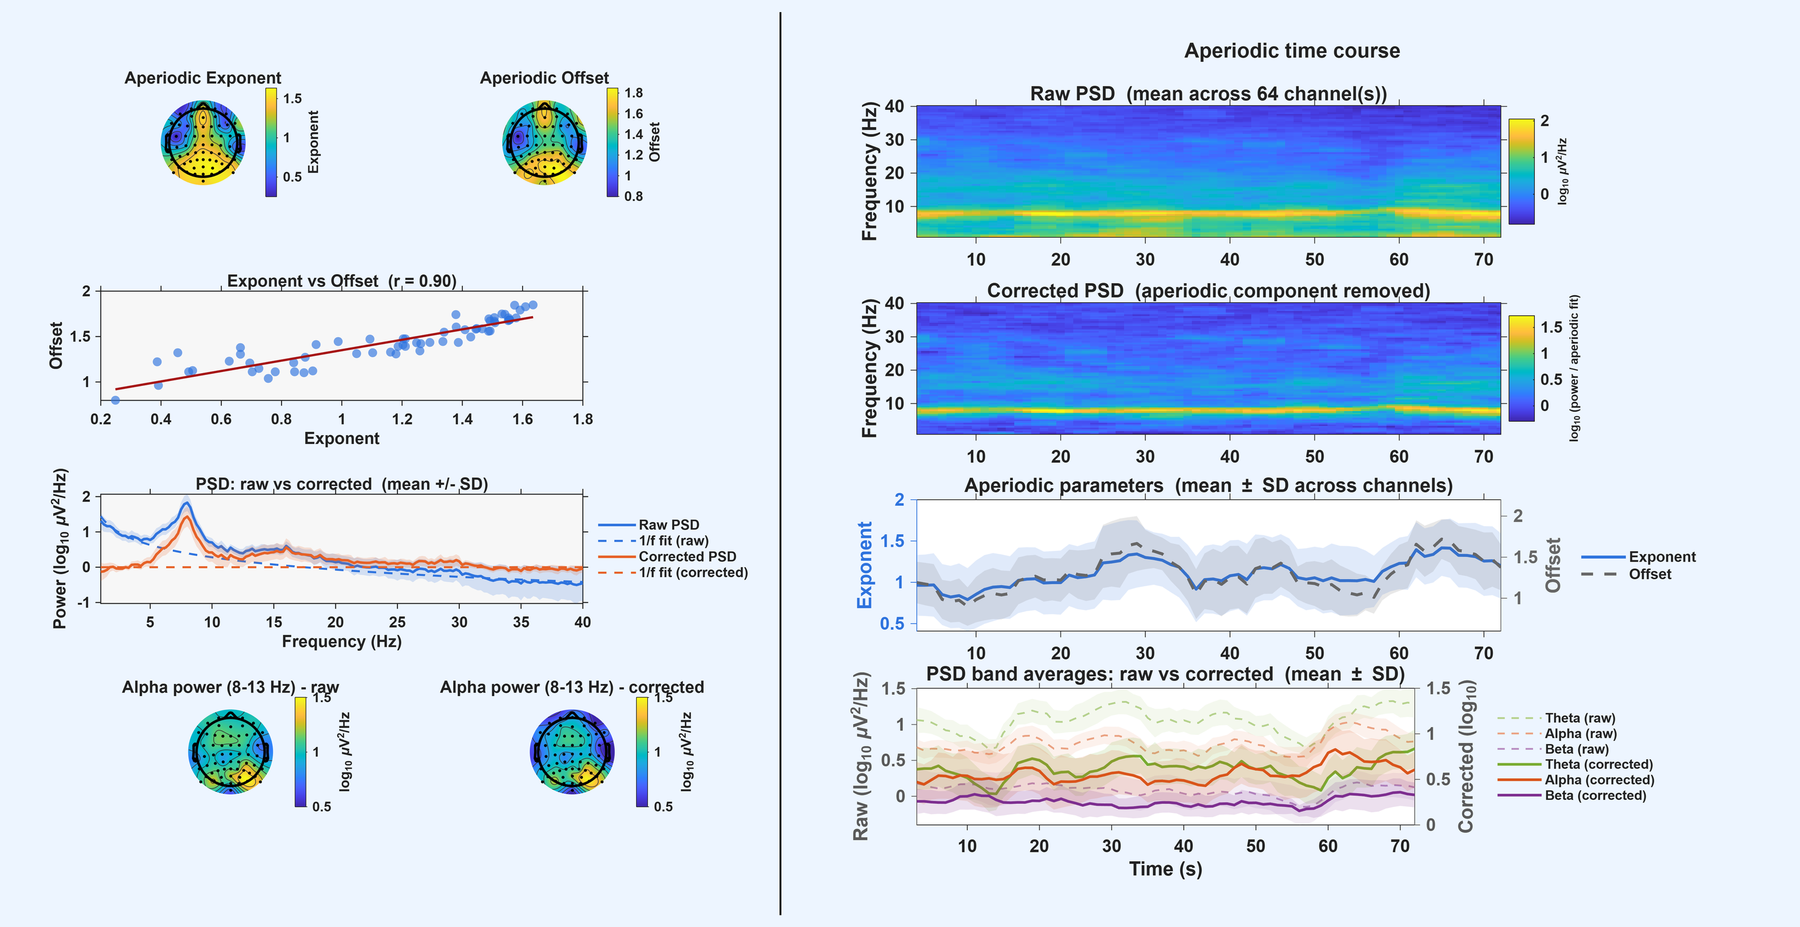
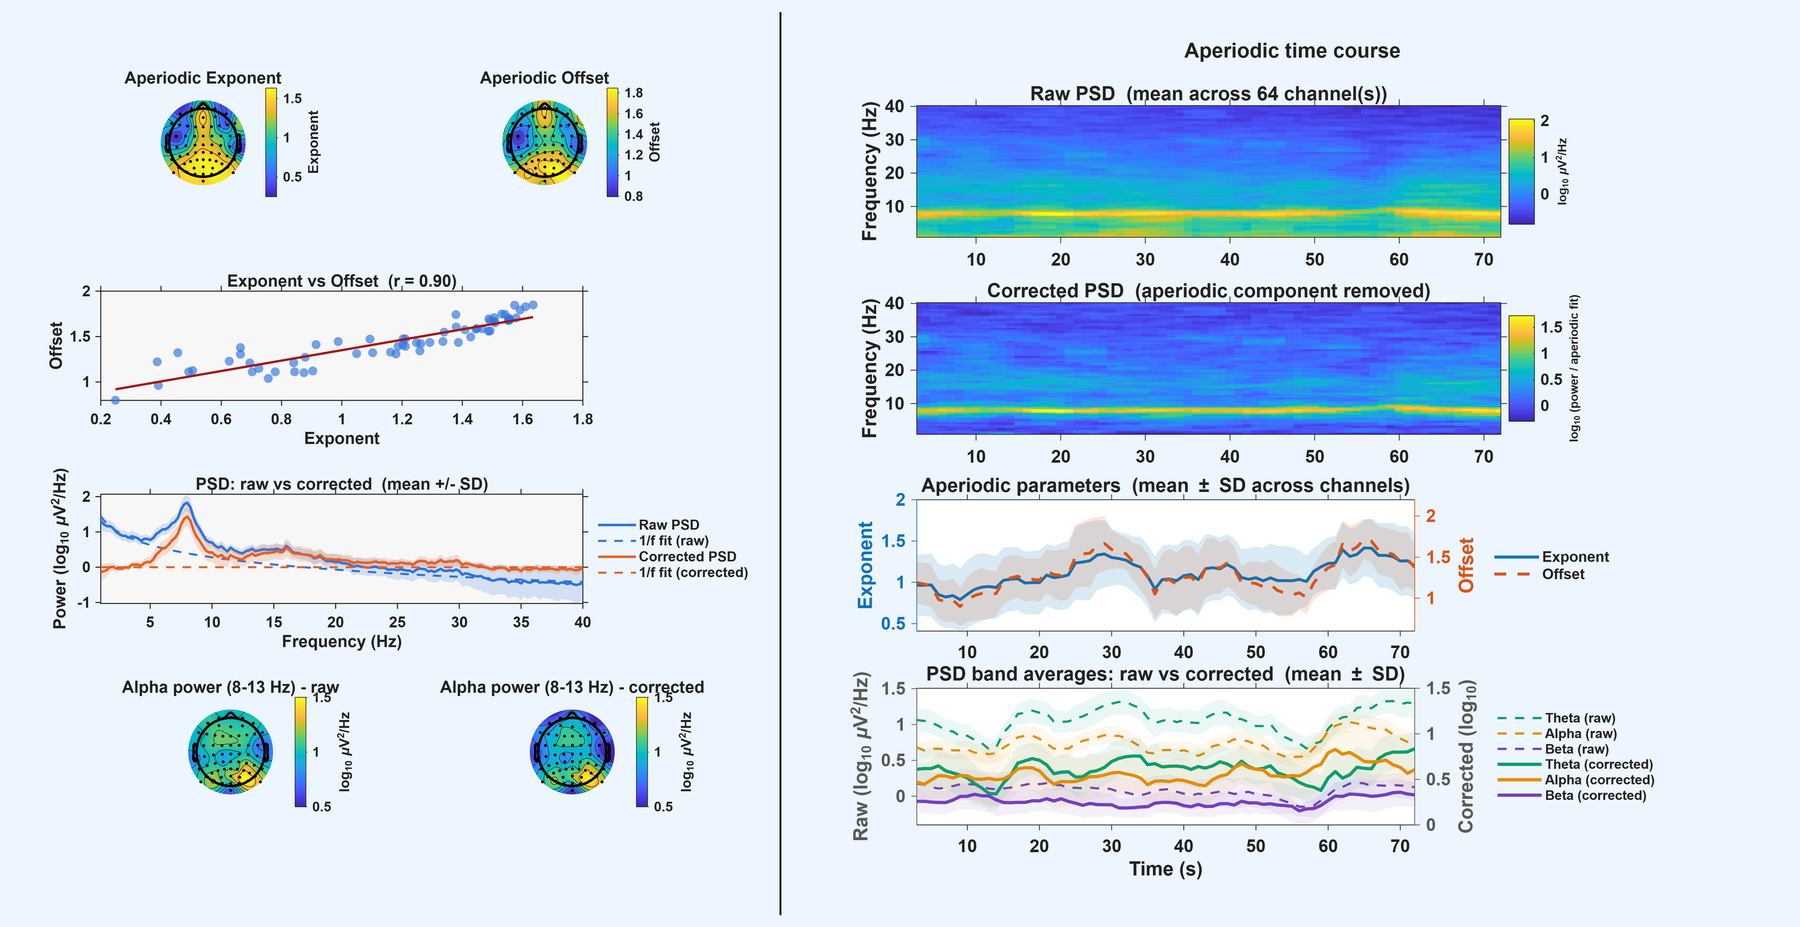
README: Figs 4-5 with the updated aperiodic time-course panels; TODO

diff --git a/TODO.md b/TODO.md
@@ -4,17 +4,15 @@
 Plugin v2.1 is on GitHub (release v2.1, ASCENT2.1.zip). Manuscript v16 and letter v6 are built
 in manuscript/ (no PDFs); only the aperiodic figures are still being regenerated.
 - NEXT (paper, to submit the revision):
-  1. When `sections = {'aperiodic'}; make_revision_figures` has finished (new colours in the
-     time-course panels), rebuild v16:
-     `bash manuscript/tools/build_v16.sh <scratch dir> manuscript/figures/fig1_v16`
-     (writes v16 clean, red, tracked and letter v6 in manuscript/).
-  2. Check Figs 4-5 in the composed figures (manuscript/figures/regen_v16/) and copy them to
-     the README: img/fig4_aperiodic_channels.png, img/fig5_aperiodic_ics.png (1800 px wide).
-  3. Final read of v16 red + letter v6, then submit. IRB protocol code: none available,
+  1. DONE 2026-10-22 14:48: aperiodic figures regenerated, v16 and letter v6 rebuilt
+     (manuscript/), README Figs 4-5 updated.
+  2. Final read of v16 red + letter v6, then submit (see 3).
+  3. Submit v16 red + letter v6. IRB protocol code: none available,
      v16 cites the IONS IRB and the dataset paper.
 - NEXT (plugin):
-  - Upload ASCENT2.1.zip to the EEGLAB extension manager
-    (https://sccn.ucsd.edu/eeglab/plugin_uploader/upload_form.php, name ASCENT, version 2.1).
+  - Get ASCENT2.1.zip into the EEGLAB extension manager: the upload form errors (2026-10-22);
+    submit through an issue on github.com/sccn/eeglab with the zip attached, or send it to
+    Arnaud Delorme.
   - Remove the old copies: eeglab/plugins/Ascent (full repo copy), Ascent_rewritten.git,
     Ascent_slim.git; install the plugin from ASCENT2.1.zip.
   - Optional: ask GitHub Support to purge unreferenced objects after the history rewrite.
